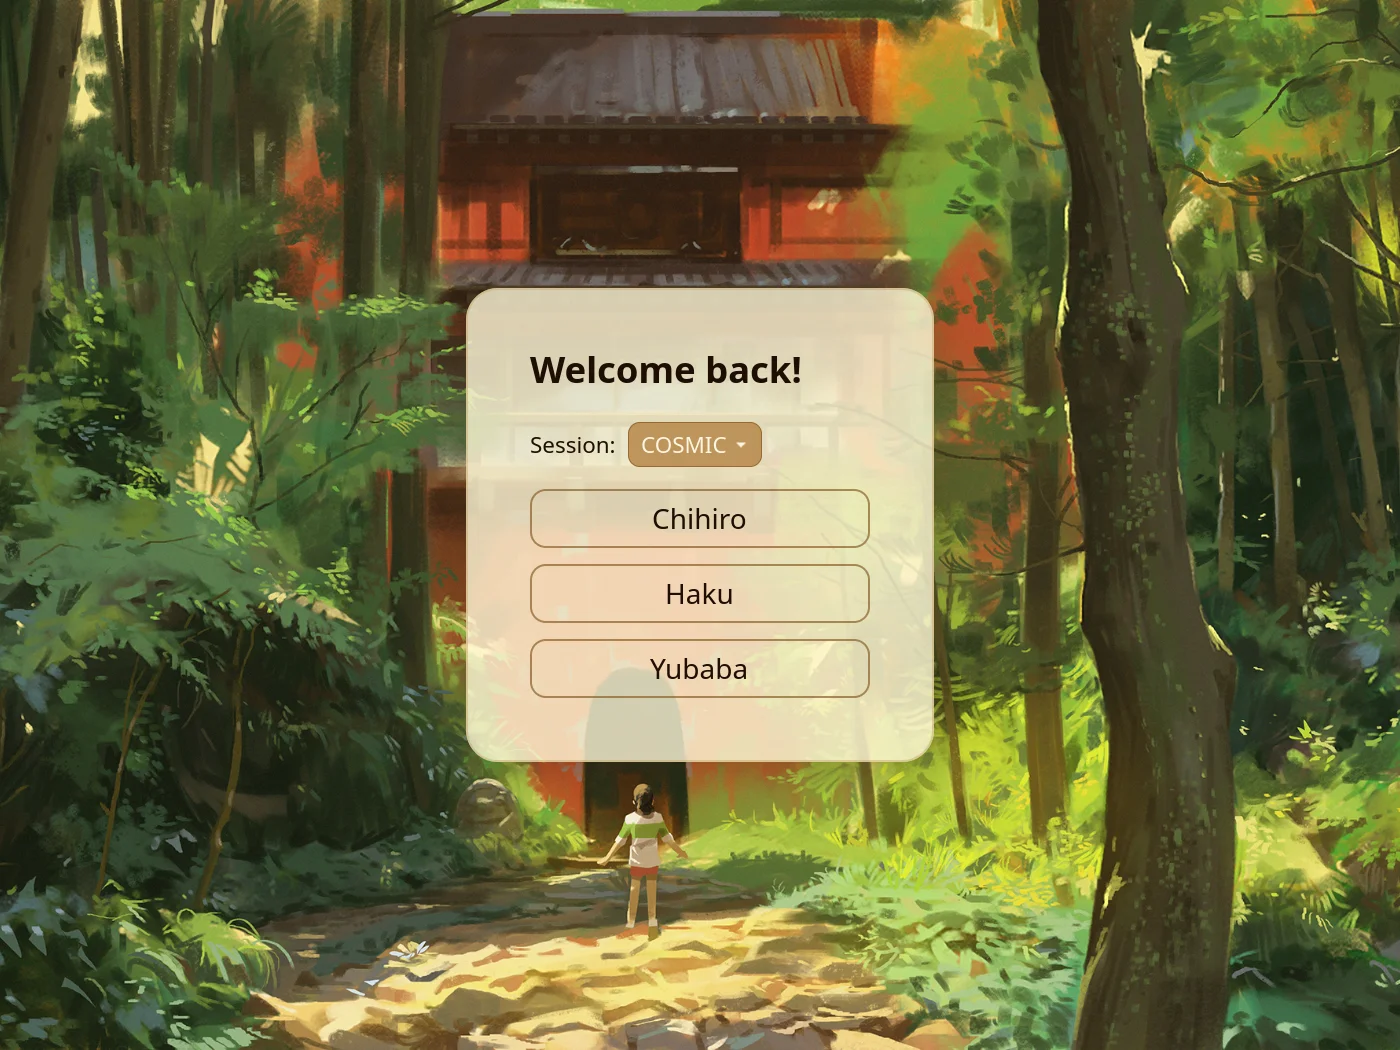
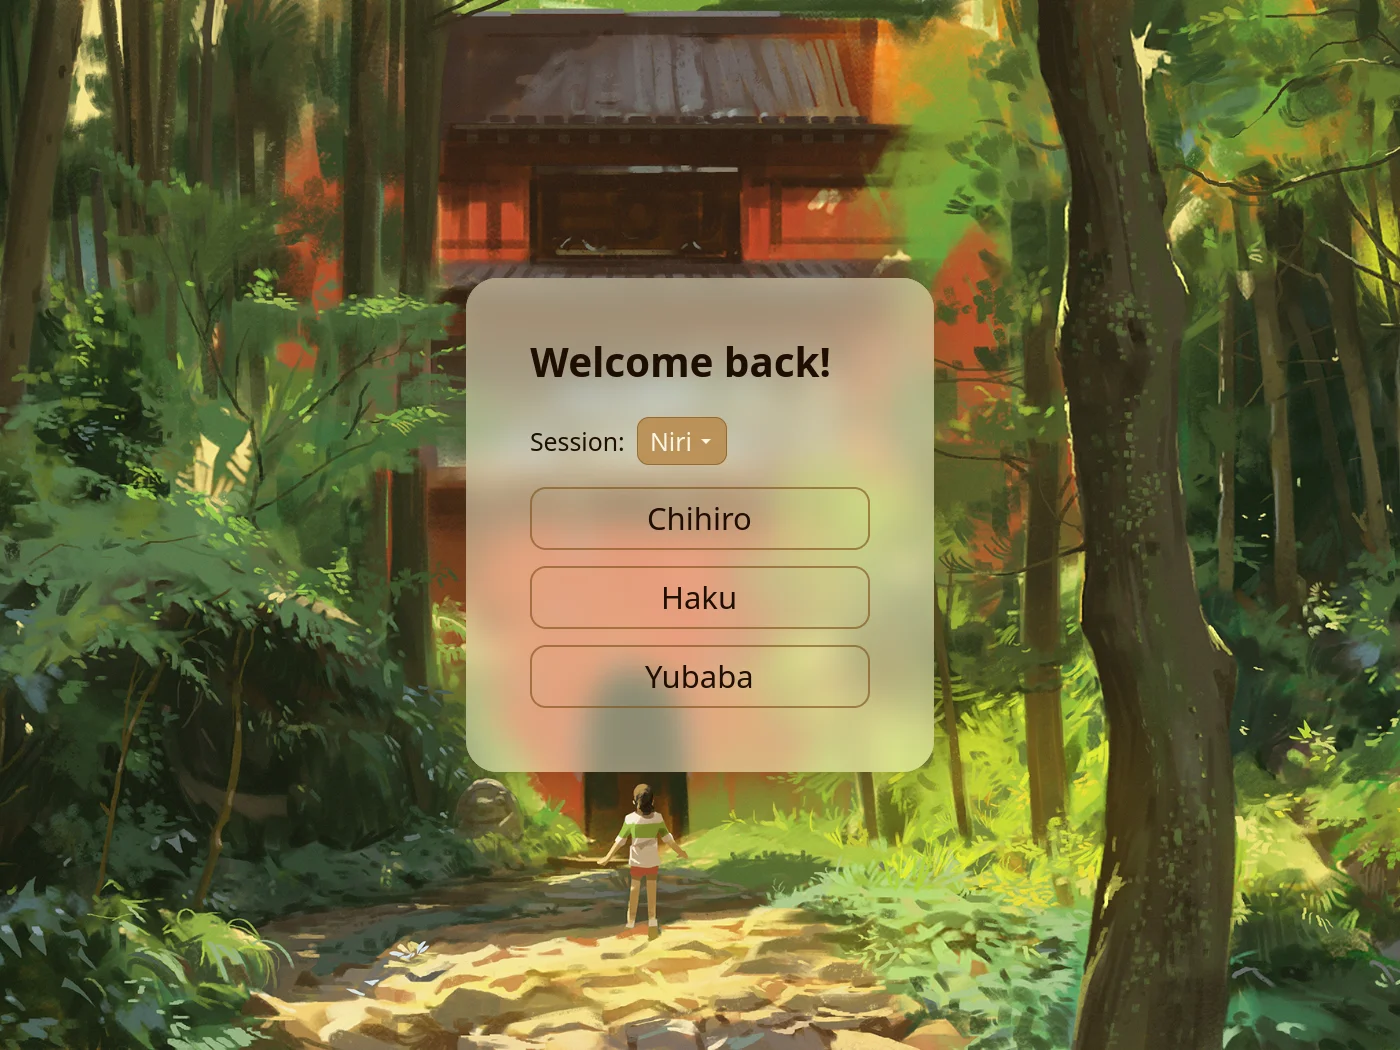
Docs: update screenshots

Changed region(s): [[0.3071, 0.2438, 0.6757, 0.7619]]

diff --git a/README.md b/README.md
@@ -11,19 +11,19 @@ off to an independent user session per seat.
 <table align="center">
   <tr>
     <td align="center" width="33%">
-      <a href="doc/screenshots/login.png">
-        <img src="doc/screenshots/login.png" alt="User selection"></a><br>
+      <a href="doc/screenshots/login.webp">
+        <img src="doc/screenshots/login.webp" alt="User selection"></a><br>
       <sub>Greeter with default theme</sub>
     </td>
     <td align="center" width="33%">
-      <a href="doc/screenshots/password.png">
-        <img src="doc/screenshots/password.png" alt="Password entry"></a><br>
-      <sub>Password entry</sub>
+      <a href="doc/screenshots/password.webp">
+        <img src="doc/screenshots/password.webp" alt="Password entry"></a><br>
+      <sub>Password entry - <code>hacker</code> theme</sub>
     </td>
     <td align="center" width="33%">
       <a href="doc/screenshots/ghibli.webp">
         <img src="doc/screenshots/ghibli.webp" alt="Ghibli theme"></a><br>
-      <sub>Ghibli theme</sub>
+      <sub><code>ghibli</code> theme</sub>
     </td>
   </tr>
 </table>
@@ -106,10 +106,16 @@ _¹ On Fedora, wallet/keyring auto-unlock is currently not working._
 Other systemd-based distros should work - the only distro-specific piece is the
 PAM stack. Adapt one of the provided PAM configs as needed.
 
-**Non-systemd-based distros** (Artix, Void, Devuan): atrium does not directly depend on systemd init - it only needs logind for seat management. If you run elogind, it should work with some changes to `meson.build` and the PAM config, and a service file for your init system. This is entirely untested, but I'd be happy to hear how it goes if you try it.
+**Non-systemd-based distros** (Artix, Void, Devuan): atrium does not directly
+depend on systemd init - it only needs logind for seat management. If you run
+elogind, it should work with some changes to `meson.build` and the PAM config,
+and a service file for your init system. This is entirely untested, but I'd be
+happy to hear how it goes if you try it.
 
-The following desktop environments have been tested: GNOME, KDE Plasma, COSMIC, Sway, Niri. Any Wayland compositor with a session file in `/usr/share/wayland-sessions`
-should work - this list reflects what has been verified.
+The following desktop environments have been tested: GNOME, KDE Plasma, COSMIC,
+Sway, Niri. Any Wayland compositor with a session file in
+`/usr/share/wayland-sessions` should work - this list reflects what has been
+verified.
 
 If atrium works on your setup, please consider adding a quick note to the
 [Compatibility Reports](https://github.com/kavau/atrium/issues/112) issue. If it
@@ -172,8 +178,8 @@ The `-Ddist` option (required) selects the correct PAM stack for the target dist
 
 Each config file is heavily commented; consult them for the full set of
 available keys and their meaning. Missing config files or keys fall back onto
-compiled-in defaults. More information can be found in the
-[Configuration](doc/configuration.md) doc.
+compiled-in defaults. More information can be found in
+[doc/configuration.md](doc/configuration.md).
 
 ### 4. Enable and start
 
@@ -200,8 +206,8 @@ sudo systemctl enable atrium
 Then reboot. atrium will start on boot and launch a greeter on every configured
 seat.
 
-If things go wrong, please take a look a the
-[Troubleshooting](doc/troubleshooting.md) doc.
+If things go wrong, please take a look at
+[doc/troubleshooting.md](doc/troubleshooting.md).
 
 ### 5. Uninstall
 
